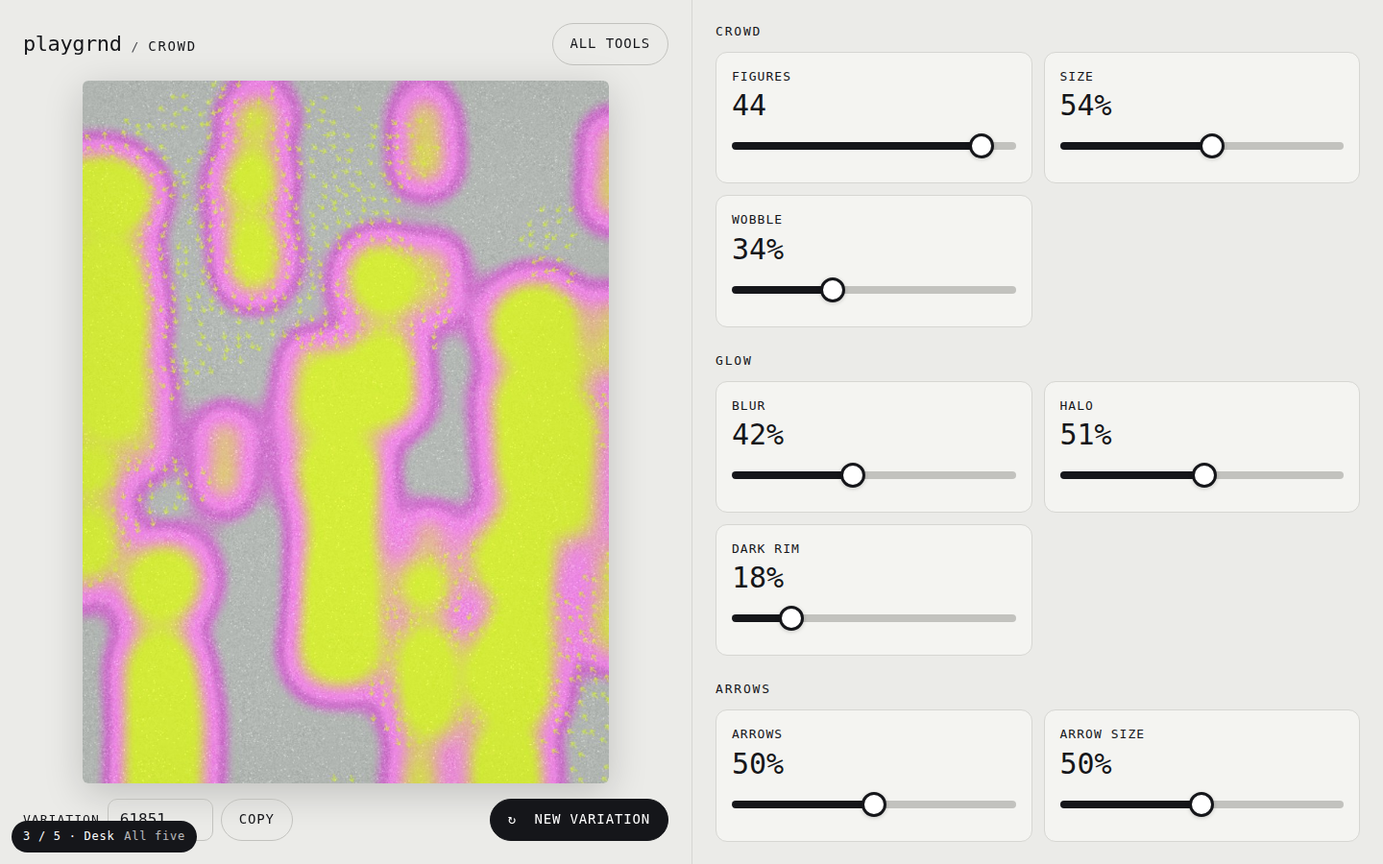
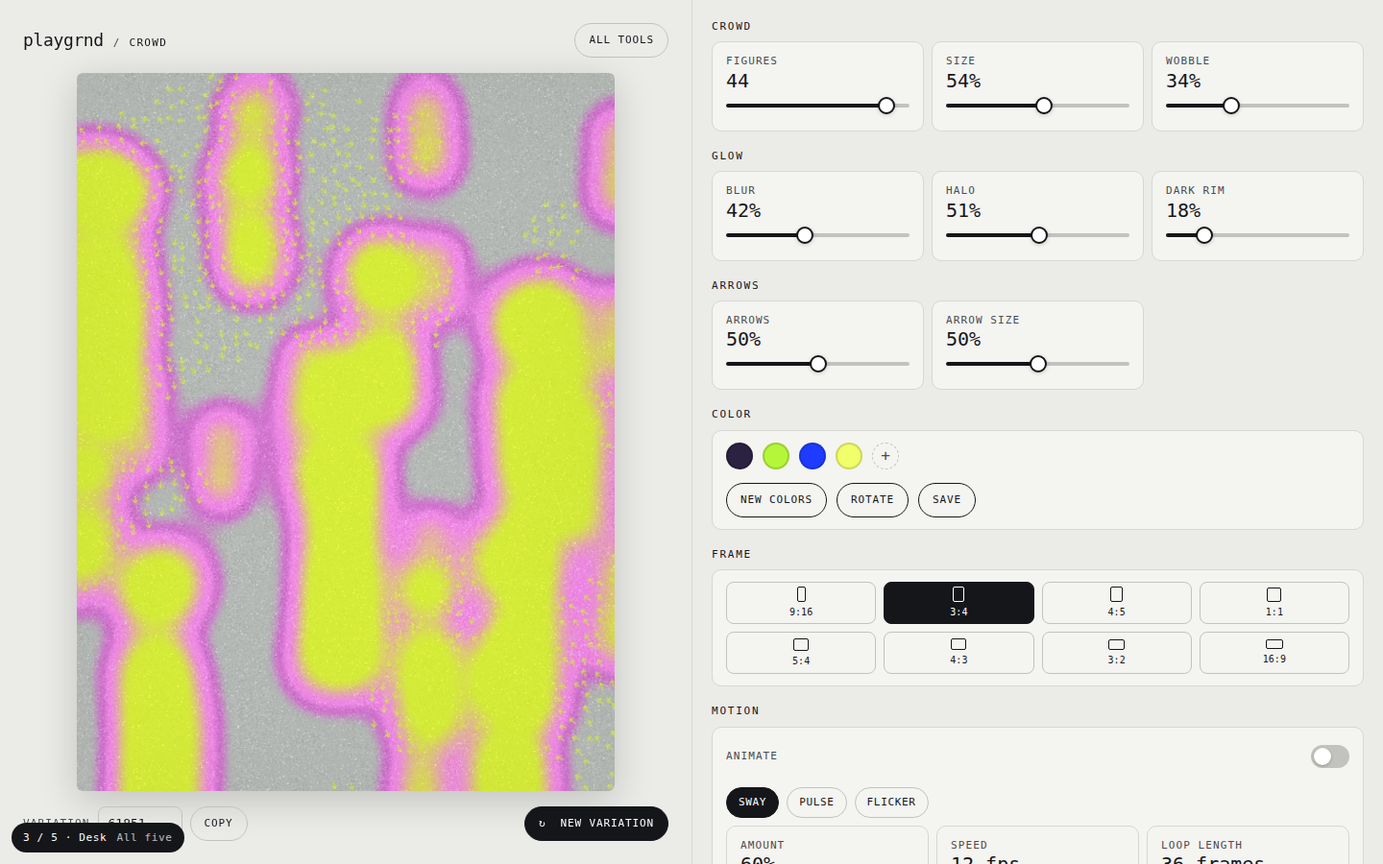
Layout prototypes: moderate sizes, not huge ones
Type 11–13px, 4px slider tracks with 18px thumbs, 36px controls and 28px
swatches: a step up from today rather than a leap. Badge no longer blocks
controls.

Claude-Session: https://claude.ai/code/session_01Hb5jk9z6h4o1AzZNFzskh6

diff --git a/ui/base.css b/ui/base.css
@@ -5,79 +5,80 @@
   --bg:#EBEBE8; --panel:#F4F4F1; --ink:#15161A; --ink2:#4A4B50; --ink3:#7A7B80;
   --line:#D6D6D2; --line2:#C2C2BE; --accent:#F5C21B;
   --mono:"DM Mono",ui-monospace,SFMono-Regular,Menlo,monospace;
-  --r:12px; --tap:44px;
+  --r:10px; --tap:36px;
 }
 *{box-sizing:border-box}
-html,body{margin:0;background:var(--bg);color:var(--ink);font:15px/1.4 var(--mono);-webkit-font-smoothing:antialiased}
+html,body{margin:0;background:var(--bg);color:var(--ink);font:13px/1.4 var(--mono);-webkit-font-smoothing:antialiased}
 button,input{font:inherit;color:inherit}
 button{cursor:pointer}
 a{color:inherit;text-decoration:none}
-.proto-tag{position:fixed;left:12px;bottom:12px;z-index:50;background:var(--ink);color:#fff;font-size:12px;letter-spacing:.06em;padding:8px 12px;border-radius:999px;display:flex;gap:10px;align-items:center}
-.proto-tag a{color:#fff;opacity:.7}
+.proto-tag{pointer-events:none;position:fixed;left:12px;bottom:12px;z-index:50;background:var(--ink);color:#fff;font-size:11px;letter-spacing:.06em;padding:8px 12px;border-radius:999px;display:flex;gap:10px;align-items:center}
+.proto-tag a{pointer-events:auto;color:#fff;opacity:.7}
 .proto-tag a:hover{opacity:1}
 
 /* --- type --- */
-.lbl{font-size:13px;letter-spacing:.08em;text-transform:uppercase;color:var(--ink);font-weight:500}
-.val{font-size:15px;color:var(--ink);font-variant-numeric:tabular-nums}
-.sub{font-size:13px;color:var(--ink2)}
-.h{font-size:13px;letter-spacing:.14em;text-transform:uppercase;color:var(--ink);font-weight:500;margin:0}
+.lbl{font-size:11px;letter-spacing:.1em;text-transform:uppercase;color:var(--ink2);font-weight:500}
+.val{font-size:12px;color:var(--ink);font-variant-numeric:tabular-nums}
+.sub{font-size:11px;color:var(--ink2)}
+.h{font-size:11px;letter-spacing:.16em;text-transform:uppercase;color:var(--ink);font-weight:500;margin:0}
 
 /* --- logo / header bits --- */
-.logo{font-size:22px;font-weight:500;letter-spacing:-.02em}
+.logo{font-size:18px;font-weight:500;letter-spacing:-.02em}
 .crumb{display:flex;gap:10px;align-items:baseline}
-.crumb .tool{font-size:14px;letter-spacing:.12em;text-transform:uppercase}
+.crumb .tool{font-size:11px;letter-spacing:.12em;text-transform:uppercase}
 
 /* --- slider --- */
-.dial{display:flex;flex-direction:column;gap:8px;min-height:60px;min-width:0}
+.dial{display:flex;flex-direction:column;gap:2px;min-height:44px;min-width:0}
 .dial .top{display:flex;justify-content:space-between;align-items:baseline}
-.dial input[type=range]{-webkit-appearance:none;appearance:none;width:100%;height:var(--tap);margin:0;background:transparent;
+.dial input[type=range]{-webkit-appearance:none;appearance:none;width:100%;height:28px;margin:0;background:transparent;
   --p:50%;}
-.dial input[type=range]::-webkit-slider-runnable-track{height:8px;border-radius:999px;
+.dial input[type=range]::-webkit-slider-runnable-track{height:4px;border-radius:999px;
   background:linear-gradient(90deg,var(--ink) 0 var(--p),var(--line2) var(--p) 100%)}
-.dial input[type=range]::-moz-range-track{height:8px;border-radius:999px;background:var(--line2)}
-.dial input[type=range]::-moz-range-progress{height:8px;border-radius:999px;background:var(--ink)}
-.dial input[type=range]::-webkit-slider-thumb{-webkit-appearance:none;width:26px;height:26px;border-radius:50%;background:#fff;border:3px solid var(--ink);margin-top:-9px;box-shadow:0 1px 4px rgba(0,0,0,.18)}
-.dial input[type=range]::-moz-range-thumb{width:20px;height:20px;border-radius:50%;background:#fff;border:3px solid var(--ink);box-shadow:0 1px 4px rgba(0,0,0,.18)}
+.dial input[type=range]::-moz-range-track{height:4px;border-radius:999px;background:var(--line2)}
+.dial input[type=range]::-moz-range-progress{height:4px;border-radius:999px;background:var(--ink)}
+.dial input[type=range]::-webkit-slider-thumb{-webkit-appearance:none;width:18px;height:18px;border-radius:50%;background:#fff;border:2.5px solid var(--ink);margin-top:-7px;box-shadow:0 1px 4px rgba(0,0,0,.18)}
+.dial input[type=range]::-moz-range-thumb{width:14px;height:14px;border-radius:50%;background:#fff;border:2.5px solid var(--ink);box-shadow:0 1px 4px rgba(0,0,0,.18)}
 .dial input[type=range]:focus-visible{outline:none}
 .dial input[type=range]:focus-visible::-webkit-slider-thumb{box-shadow:0 0 0 4px rgba(245,194,27,.6)}
 .dial .val-in{width:64px;text-align:right;border:0;border-bottom:2px solid var(--line2);background:transparent;padding:2px 0;font-size:15px}
 
 /* --- buttons --- */
-.btn{min-height:var(--tap);padding:0 18px;border-radius:999px;border:1.5px solid var(--ink);background:transparent;font-size:14px;letter-spacing:.06em;text-transform:uppercase;display:inline-flex;align-items:center;justify-content:center;gap:8px;white-space:nowrap}
+.btn{min-height:var(--tap);padding:0 14px;border-radius:999px;border:1px solid var(--ink);background:transparent;font-size:11px;letter-spacing:.08em;text-transform:uppercase;display:inline-flex;align-items:center;justify-content:center;gap:8px;white-space:nowrap}
 .btn:hover{background:rgba(0,0,0,.05)}
 .btn.primary{background:var(--ink);color:#fff;border-color:var(--ink)}
 .btn.primary:hover{background:#000}
-.btn.big{min-height:56px;font-size:15px;width:100%}
+.btn.big{min-height:44px;font-size:12px;width:100%}
 .btn.icon{width:var(--tap);padding:0;border-radius:50%}
 .btn.ghost{border-color:var(--line2)}
 .row{display:flex;gap:10px;flex-wrap:wrap;align-items:center}
 
 /* --- switch --- */
 .sw{display:flex;align-items:center;justify-content:space-between;min-height:var(--tap);gap:12px}
-.sw .knob{width:52px;height:30px;border-radius:999px;background:var(--line2);position:relative;border:0;flex:none;transition:background .15s}
-.sw .knob::after{content:"";position:absolute;top:3px;left:3px;width:24px;height:24px;border-radius:50%;background:#fff;box-shadow:0 1px 3px rgba(0,0,0,.25);transition:transform .15s}
+.sw .knob{width:40px;height:24px;border-radius:999px;background:var(--line2);position:relative;border:0;flex:none;transition:background .15s}
+.sw .knob::after{content:"";position:absolute;top:3px;left:3px;width:18px;height:18px;border-radius:50%;background:#fff;box-shadow:0 1px 3px rgba(0,0,0,.25);transition:transform .15s}
 .sw .knob[aria-pressed=true]{background:var(--ink)}
-.sw .knob[aria-pressed=true]::after{transform:translateX(22px)}
+.sw .knob[aria-pressed=true]::after{transform:translateX(16px)}
 
 /* --- chips --- */
 .chips{display:flex;gap:8px;flex-wrap:wrap}
-.chip{min-height:40px;padding:0 14px;border-radius:999px;border:1.5px solid var(--line2);background:transparent;font-size:14px}
+.chip{min-height:32px;padding:0 12px;border-radius:999px;border:1px solid var(--line2);background:transparent;font-size:11px;letter-spacing:.06em;text-transform:uppercase}
 .chip[aria-pressed=true]{background:var(--ink);color:#fff;border-color:var(--ink)}
 
 /* --- ratio tiles --- */
 .ratios{display:grid;grid-template-columns:repeat(4,1fr);gap:8px}
-.ratio{min-height:56px;border:1.5px solid var(--line2);border-radius:10px;background:transparent;display:flex;flex-direction:column;align-items:center;justify-content:center;gap:6px;font-size:13px}
-.ratio i{display:block;border:2px solid currentColor;border-radius:2px;width:14px;height:18px}
+.ratio{min-height:44px;border:1px solid var(--line2);border-radius:8px;background:transparent;display:flex;flex-direction:column;align-items:center;justify-content:center;gap:4px;font-size:10px}
+/* ratio glyph */
+.ratio i{display:block;border:1.5px solid currentColor;border-radius:2px;width:12px;height:15px}
 .ratio[aria-pressed=true]{background:var(--ink);color:#fff;border-color:var(--ink)}
 
 /* --- swatches --- */
 .inks{display:flex;gap:10px;flex-wrap:wrap}
-.ink{width:40px;height:40px;border-radius:50%;border:2px solid rgba(0,0,0,.15);padding:0}
-.ink.add{background:transparent;border:2px dashed var(--line2);font-size:20px;color:var(--ink2)}
+.ink{width:28px;height:28px;border-radius:50%;border:2px solid rgba(0,0,0,.15);padding:0}
+.ink.add{background:transparent;border:1.5px dashed var(--line2);font-size:16px;color:var(--ink2)}
 
 /* --- misc --- */
-.card{background:var(--panel);border:1px solid var(--line);border-radius:var(--r);padding:16px}
+.card{background:var(--panel);border:1px solid var(--line);border-radius:var(--r);padding:12px 14px}
 .seedbox{display:flex;gap:8px;align-items:center}
-.seedbox input{width:110px;min-height:var(--tap);border:1.5px solid var(--line2);border-radius:10px;background:transparent;padding:0 12px;font-size:16px}
+.seedbox input{width:88px;min-height:var(--tap);border:1px solid var(--line2);border-radius:8px;background:transparent;padding:0 10px;font-size:13px}
 .art{display:block;width:100%;height:auto;border-radius:6px;box-shadow:0 10px 40px rgba(0,0,0,.18)}
 .hint{font-size:12px;color:var(--ink3);letter-spacing:.06em;text-transform:uppercase}

diff --git a/ui/4/index.html b/ui/4/index.html
@@ -5,19 +5,19 @@
 <link rel="stylesheet" href="../base.css">
 <style>
 body{overflow:hidden}
-.stage{position:fixed;inset:0;display:flex;align-items:center;justify-content:center;padding:72px 24px 110px}
+.stage{position:fixed;inset:0;display:flex;align-items:center;justify-content:center;padding:64px 24px 90px}
 .stage img{max-height:100%;max-width:100%;width:auto;height:auto}
-.hdr{position:fixed;top:16px;left:20px;right:20px;display:flex;align-items:center;gap:16px;z-index:5}
+.hdr{position:fixed;top:14px;left:20px;right:20px;display:flex;align-items:center;gap:16px;z-index:5}
 .hdr .sp{flex:1}
-.fab{position:fixed;left:50%;bottom:22px;transform:translateX(-50%);display:flex;gap:6px;padding:8px;background:var(--ink);border-radius:999px;box-shadow:0 12px 40px rgba(0,0,0,.3);z-index:6}
-.fab button{min-height:52px;padding:0 18px;border-radius:999px;border:0;background:transparent;color:#fff;font-size:14px;letter-spacing:.06em;text-transform:uppercase;display:flex;align-items:center;gap:8px}
+.fab{position:fixed;left:50%;bottom:18px;transform:translateX(-50%);display:flex;gap:4px;padding:6px;background:var(--ink);border-radius:999px;box-shadow:0 12px 40px rgba(0,0,0,.3);z-index:6}
+.fab button{min-height:40px;padding:0 14px;border-radius:999px;border:0;background:transparent;color:#fff;font-size:11px;letter-spacing:.08em;text-transform:uppercase;display:flex;align-items:center;gap:8px}
 .fab button:hover{background:rgba(255,255,255,.12)}
 .fab button.hi{background:var(--accent);color:var(--ink)}
-.sheet{position:fixed;right:20px;top:72px;bottom:96px;width:440px;max-width:calc(100vw - 40px);background:var(--panel);border:1px solid var(--line);border-radius:18px;box-shadow:0 20px 60px rgba(0,0,0,.25);padding:20px;display:flex;flex-direction:column;gap:18px;overflow:auto;z-index:7;transform:translateX(calc(100% + 40px));transition:transform .2s;visibility:hidden}
+.sheet{position:fixed;right:20px;top:64px;bottom:80px;width:360px;max-width:calc(100vw - 40px);background:var(--panel);border:1px solid var(--line);border-radius:14px;box-shadow:0 20px 60px rgba(0,0,0,.25);padding:16px;display:flex;flex-direction:column;gap:12px;overflow:auto;z-index:7;transform:translateX(calc(100% + 40px));transition:transform .2s;visibility:hidden}
 .sheet.open{transform:none;visibility:visible}
 .sheet .head{display:flex;justify-content:space-between;align-items:center}
-.sheet .grp{display:flex;flex-direction:column;gap:12px;padding-top:12px;border-top:1px solid var(--line)}
-@media(max-width:700px){.hdr .seedbox{display:none}.stage{padding:64px 12px 100px}.sheet{left:0;right:0;top:auto;bottom:0;width:auto;max-width:none;max-height:72vh;border-radius:18px 18px 0 0;transform:translateY(110%)}.sheet.open{transform:none}.fab{left:12px;right:12px;transform:none;justify-content:space-between}.fab button{padding:0 12px;font-size:12px}}
+.sheet .grp{display:flex;flex-direction:column;gap:6px;padding-top:10px;border-top:1px solid var(--line)}
+@media(max-width:700px){.proto-tag{bottom:80px}.hdr .seedbox{display:none}.stage{padding:64px 12px 100px}.sheet{left:0;right:0;top:auto;bottom:0;width:auto;max-width:none;max-height:72vh;border-radius:18px 18px 0 0;transform:translateY(110%)}.sheet.open{transform:none}.fab{left:12px;right:12px;transform:none;justify-content:space-between}.fab button{padding:0 12px;font-size:12px}}
 </style></head>
 <body>
 <div class="hdr"><div class="crumb"><span class="logo">playgrnd</span><span class="sub">/</span><span class="tool">Crowd</span></div><span class="sp"></span><div class="seedbox"><span class="lbl">Variation</span><input value="61851" inputmode="numeric" aria-label="Variation number"><button class="btn ghost">Copy</button></div></div>
@@ -56,14 +56,14 @@ body{overflow:hidden}
 <button class="ink" style="background:#F0FF6A" aria-label="Ink 4"></button>
 <button class="ink add" aria-label="Add colour">+</button></div><div class="row"><button class="btn">New colors</button><button class="btn">Rotate</button><button class="btn">Save</button></div><p class="sub">Tap a swatch to change it. Drag to reorder.</p></aside>
 <aside class="sheet" id="sh-frame"><div class="head"><p class="h">Frame</p><button class="btn icon ghost" data-close="sh-frame" aria-label="Close">&times;</button></div><div class="ratios" data-one>
-<button class="ratio" aria-pressed="false"><i style="width:11px;height:20px"></i>9:16</button>
-<button class="ratio" aria-pressed="true"><i style="width:15px;height:20px"></i>3:4</button>
-<button class="ratio" aria-pressed="false"><i style="width:16px;height:20px"></i>4:5</button>
-<button class="ratio" aria-pressed="false"><i style="width:18px;height:18px"></i>1:1</button>
-<button class="ratio" aria-pressed="false"><i style="width:20px;height:16px"></i>5:4</button>
-<button class="ratio" aria-pressed="false"><i style="width:20px;height:15px"></i>4:3</button>
-<button class="ratio" aria-pressed="false"><i style="width:21px;height:14px"></i>3:2</button>
-<button class="ratio" aria-pressed="false"><i style="width:22px;height:12px"></i>16:9</button></div></aside>
+<button class="ratio" aria-pressed="false"><i style="width:9px;height:16px"></i>9:16</button>
+<button class="ratio" aria-pressed="true"><i style="width:12px;height:16px"></i>3:4</button>
+<button class="ratio" aria-pressed="false"><i style="width:13px;height:16px"></i>4:5</button>
+<button class="ratio" aria-pressed="false"><i style="width:15px;height:15px"></i>1:1</button>
+<button class="ratio" aria-pressed="false"><i style="width:16px;height:13px"></i>5:4</button>
+<button class="ratio" aria-pressed="false"><i style="width:16px;height:12px"></i>4:3</button>
+<button class="ratio" aria-pressed="false"><i style="width:17px;height:11px"></i>3:2</button>
+<button class="ratio" aria-pressed="false"><i style="width:18px;height:10px"></i>16:9</button></div></aside>
 <aside class="sheet" id="sh-export"><div class="head"><p class="h">Export</p><button class="btn icon ghost" data-close="sh-export" aria-label="Close">&times;</button></div><div class="dial"><div class="top"><span class="lbl">Size</span><span class="val">2400</span></div>
 <input type="range" min="600" max="6000" step="100" value="2400" data-fmt="px" aria-label="Size"></div><div class="row"><button class="btn primary" style="flex:1">PNG</button><button class="btn" style="flex:1">Video</button></div><p class="sub">Video needs Animate on.</p></aside>
 <div class="proto-tag"><span>4 / 5 · Focus</span><a href="../">All five</a></div>

diff --git a/ui/5/index.html b/ui/5/index.html
@@ -4,25 +4,25 @@
 <link rel="preconnect" href="https://fonts.googleapis.com"><link rel="stylesheet" href="https://fonts.googleapis.com/css2?family=DM+Mono:wght@400;500&display=swap">
 <link rel="stylesheet" href="../base.css">
 <style>
-body{font-size:16px}
-.lbl{font-size:14px}.val{font-size:16px}
-.app{display:grid;grid-template-columns:minmax(0,1fr) 520px;min-height:100vh}
+body{font-size:13px}
+.lbl{font-size:11px}.val{font-size:12px}
+.app{display:grid;grid-template-columns:minmax(0,1fr) 420px;min-height:100vh}
 .stage{position:sticky;top:0;height:100vh;display:flex;flex-direction:column;padding:24px;gap:16px}
 .stage .pic{flex:1;min-height:0;display:flex;align-items:center;justify-content:center}
 .stage img{max-height:100%;max-width:100%;width:auto;height:auto}
 .stage .top{display:flex;align-items:center;gap:16px}.stage .sp{flex:1}
-.ctl{padding:24px;border-left:1px solid var(--line);display:flex;flex-direction:column;gap:24px}
-.sec{display:flex;flex-direction:column;gap:10px}
-.step{display:grid;grid-template-columns:52px 1fr 52px;gap:10px;align-items:stretch;min-height:64px}
-.pm{border:1.5px solid var(--line2);border-radius:12px;background:var(--panel);font-size:24px;line-height:1}
+.ctl{padding:20px;border-left:1px solid var(--line);display:flex;flex-direction:column;gap:18px}
+.sec{display:flex;flex-direction:column;gap:6px}
+.step{display:grid;grid-template-columns:36px 1fr 36px;gap:8px;align-items:stretch;min-height:44px}
+.pm{border:1px solid var(--line2);border-radius:8px;background:var(--panel);font-size:16px;line-height:1}
 .pm:active{background:var(--ink);color:#fff}
-.mid{display:flex;flex-direction:column;gap:8px;justify-content:center}
+.mid{display:flex;flex-direction:column;gap:5px;justify-content:center}
 .mid .l{display:flex;justify-content:space-between;align-items:baseline}
-.bar{height:16px;border-radius:999px;background:var(--line2);overflow:hidden;cursor:pointer;position:relative}
+.bar{height:10px;border-radius:999px;background:var(--line2);overflow:hidden;cursor:pointer;position:relative}
 .bar i{display:block;height:100%;width:50%;background:var(--ink);border-radius:999px}
-.ratio{min-height:64px;font-size:15px}
-.ink{width:48px;height:48px}
-.chip{min-height:48px;font-size:15px}
+.ratio{min-height:48px}
+.ink{width:32px;height:32px}
+.chip{min-height:36px}
 @media(max-width:1000px){.app{grid-template-columns:1fr}.stage{position:sticky;height:auto;padding:14px;gap:10px;z-index:2;background:var(--bg);border-bottom:1px solid var(--line)}.stage .pic{height:40vh}.ctl{border:0;padding:16px}}
 </style></head>
 <body>
@@ -30,7 +30,7 @@ body{font-size:16px}
 <section class="stage">
   <div class="top"><div class="crumb"><span class="logo">playgrnd</span><span class="sub">/</span><span class="tool">Crowd</span></div><span class="sp"></span><a class="btn ghost" href="#">All tools</a></div>
   <div class="pic"><img class="art" src="../art/crowd.jpg" alt=""></div>
-  <div class="row"><div class="seedbox"><span class="lbl">Variation</span><input value="61851" inputmode="numeric" aria-label="Variation number"><button class="btn ghost">Copy</button></div><span style="flex:1"></span><button class="btn primary" data-new style="min-height:56px">&#8635;&nbsp; New variation</button></div>
+  <div class="row"><div class="seedbox"><span class="lbl">Variation</span><input value="61851" inputmode="numeric" aria-label="Variation number"><button class="btn ghost">Copy</button></div><span style="flex:1"></span><button class="btn primary" data-new style="min-height:44px">&#8635;&nbsp; New variation</button></div>
 </section>
 <section class="ctl">
   <div class="sec"><p class="h">Crowd</p><div class="step" data-min="1" data-max="48" data-step="1" data-fmt="int" data-val="44">
@@ -67,14 +67,14 @@ body{font-size:16px}
 <button class="ink" style="background:#F0FF6A" aria-label="Ink 4"></button>
 <button class="ink add" aria-label="Add colour">+</button></div><div class="row"><button class="btn">New colors</button><button class="btn">Rotate</button><button class="btn">Save</button></div></div>
   <div class="sec"><p class="h">Frame</p><div class="ratios" data-one>
-<button class="ratio" aria-pressed="false"><i style="width:11px;height:20px"></i>9:16</button>
-<button class="ratio" aria-pressed="true"><i style="width:15px;height:20px"></i>3:4</button>
-<button class="ratio" aria-pressed="false"><i style="width:16px;height:20px"></i>4:5</button>
-<button class="ratio" aria-pressed="false"><i style="width:18px;height:18px"></i>1:1</button>
-<button class="ratio" aria-pressed="false"><i style="width:20px;height:16px"></i>5:4</button>
-<button class="ratio" aria-pressed="false"><i style="width:20px;height:15px"></i>4:3</button>
-<button class="ratio" aria-pressed="false"><i style="width:21px;height:14px"></i>3:2</button>
-<button class="ratio" aria-pressed="false"><i style="width:22px;height:12px"></i>16:9</button></div></div>
+<button class="ratio" aria-pressed="false"><i style="width:9px;height:16px"></i>9:16</button>
+<button class="ratio" aria-pressed="true"><i style="width:12px;height:16px"></i>3:4</button>
+<button class="ratio" aria-pressed="false"><i style="width:13px;height:16px"></i>4:5</button>
+<button class="ratio" aria-pressed="false"><i style="width:15px;height:15px"></i>1:1</button>
+<button class="ratio" aria-pressed="false"><i style="width:16px;height:13px"></i>5:4</button>
+<button class="ratio" aria-pressed="false"><i style="width:16px;height:12px"></i>4:3</button>
+<button class="ratio" aria-pressed="false"><i style="width:17px;height:11px"></i>3:2</button>
+<button class="ratio" aria-pressed="false"><i style="width:18px;height:10px"></i>16:9</button></div></div>
   <div class="sec"><div class="sw"><span class="lbl">Animate</span><button class="knob" aria-pressed="false" data-body="m5" aria-label="Animate"></button></div><div id="m5" hidden class="sec"><div class="chips" data-one><button class="chip" aria-pressed="true">Sway</button><button class="chip" aria-pressed="false">Pulse</button><button class="chip" aria-pressed="false">Flicker</button></div><div class="step" data-min="0.05" data-max="2" data-step="0.05" data-fmt="pct" data-val="0.6">
 <button class="pm" aria-label="Less Amount">&minus;</button>
 <div class="mid"><div class="l"><span class="lbl">Amount</span><span class="val"></span></div><div class="bar"><i></i></div></div>

diff --git a/ui/index.html b/ui/index.html
@@ -22,7 +22,7 @@ h1{font-size:26px;font-weight:500;margin:0 0 8px}
 </style></head>
 <body><div class="wrap">
 <h1>Tool page layouts</h1>
-<p class="lead">Five ways to make the tool page easier to see and easier to grab. Same brand, same controls, same picture in every one. Each opens with the real dial set from Crowd so you can feel the sliders, chips and buttons at their new sizes. Try them on your phone too.</p>
-<div class="now"><span>Labels today</span><b>8.5px at 45% grey</b><span>Labels in every option</span><b>13–16px at full ink</b><span>Slider track today</span><b>1px hairline, 12px thumb</b><span>Slider in every option</span><b>8–16px track, 26px thumb</b><span>Smallest tap target today</span><b>15px swatch</b><span>Smallest tap target now</span><b>40px</b></div>
-<div class="opts"><a class="opt" href="1/"><img src="shots/1-desktop.png" alt=""><div class="t"><span class="num">1</span><span class="name">Big rail</span></div><p>Today's layout, kept. Everything in it is bigger: 13–15px type at full ink, 8px slider tracks, 26px thumbs, 44px rows.</p><div class="mini"><img src="shots/1-mobile.png" alt=""></div></a><a class="opt" href="2/"><img src="shots/2-desktop.png" alt=""><div class="t"><span class="num">2</span><span class="name">Deck</span></div><p>Art on top, a tabbed dock along the bottom. One tab open at a time, its dials laid side by side at full width. Built for thumbs.</p><div class="mini"><img src="shots/2-mobile.png" alt=""></div></a><a class="opt" href="3/"><img src="shots/3-desktop.png" alt=""><div class="t"><span class="num">3</span><span class="name">Desk</span></div><p>Art pinned on the left, a grid of large dial cards on the right. Each card shows its number big, so you can read the setting from across the room.</p><div class="mini"><img src="shots/3-mobile.png" alt=""></div></a><a class="opt" href="4/"><img src="shots/4-desktop.png" alt=""><div class="t"><span class="num">4</span><span class="name">Focus</span></div><p>The picture gets the whole screen. A floating bar of five big buttons sits at the bottom; each opens a sheet with large controls, then gets out of the way.</p><div class="mini"><img src="shots/4-mobile.png" alt=""></div></a><a class="opt" href="5/"><img src="shots/5-desktop.png" alt=""><div class="t"><span class="num">5</span><span class="name">Steppers</span></div><p>No hairline sliders at all. Every dial is a wide bar with big minus and plus buttons, so a nudge is one tap and a jump is a tap on the bar. 16px type throughout.</p><div class="mini"><img src="shots/5-mobile.png" alt=""></div></a></div>
+<p class="lead">Five ways to make the tool page easier to see and easier to grab, each a moderate step up from today rather than a leap. Same brand, same controls, same picture in every one. Each opens with the real dial set from Crowd so you can feel the sliders, chips and buttons at their new sizes. Try them on your phone too.</p>
+<div class="now"><span>Labels today</span><b>8.5px at 45% grey</b><span>Labels in every option</span><b>11–12px at 70% ink</b><span>Slider track today</span><b>1px hairline, 12px thumb</b><span>Slider in every option</span><b>4px track, 18px thumb</b><span>Smallest tap target today</span><b>15px swatch</b><span>Smallest tap target now</span><b>28px swatch, 36px everything else</b></div>
+<div class="opts"><a class="opt" href="1/"><img src="shots/1-desktop.png" alt=""><div class="t"><span class="num">1</span><span class="name">Big rail</span></div><p>Today's layout, kept. Everything in it a step bigger: 11–12px type instead of 8.5, 4px slider tracks instead of 1, 18px thumbs, 36px rows.</p><div class="mini"><img src="shots/1-mobile.png" alt=""></div></a><a class="opt" href="2/"><img src="shots/2-desktop.png" alt=""><div class="t"><span class="num">2</span><span class="name">Deck</span></div><p>Art on top, a tabbed dock along the bottom. One tab open at a time, its dials laid side by side at full width. Built for thumbs.</p><div class="mini"><img src="shots/2-mobile.png" alt=""></div></a><a class="opt" href="3/"><img src="shots/3-desktop.png" alt=""><div class="t"><span class="num">3</span><span class="name">Desk</span></div><p>Art pinned on the left, a grid of dial cards on the right. Each card shows its number a little bigger, so you can find a setting at a glance.</p><div class="mini"><img src="shots/3-mobile.png" alt=""></div></a><a class="opt" href="4/"><img src="shots/4-desktop.png" alt=""><div class="t"><span class="num">4</span><span class="name">Focus</span></div><p>The picture gets the whole screen. A floating bar of five buttons sits at the bottom; each opens a sheet with large controls, then gets out of the way.</p><div class="mini"><img src="shots/4-mobile.png" alt=""></div></a><a class="opt" href="5/"><img src="shots/5-desktop.png" alt=""><div class="t"><span class="num">5</span><span class="name">Steppers</span></div><p>No hairline sliders at all. Every dial is a bar with minus and plus buttons, so a nudge is one tap and a jump is a tap on the bar.</p><div class="mini"><img src="shots/5-mobile.png" alt=""></div></a></div>
 </div></body></html>

diff --git a/ui/2/index.html b/ui/2/index.html
@@ -5,16 +5,16 @@
 <link rel="stylesheet" href="../base.css">
 <style>
 .app{display:grid;grid-template-rows:auto 1fr auto;grid-template-columns:minmax(0,1fr);height:100vh}
-.bar{display:flex;align-items:center;gap:16px;padding:12px 20px;border-bottom:1px solid var(--line)}
+.bar{display:flex;align-items:center;gap:12px;padding:10px 18px;border-bottom:1px solid var(--line)}
 .bar .sp{flex:1}
 .stage{display:flex;align-items:center;justify-content:center;padding:20px;min-height:0}
 .stage img{max-height:100%;max-width:100%;width:auto;height:auto}
 .dock{border-top:1px solid var(--line);background:var(--panel)}
 .tabs{display:flex;gap:4px;padding:10px 12px 0;overflow-x:auto;scrollbar-width:none}
 .tabs::-webkit-scrollbar{display:none}
-.tab{min-height:var(--tap);padding:0 16px;border:0;border-radius:10px 10px 0 0;background:transparent;font-size:14px;letter-spacing:.06em;text-transform:uppercase;color:var(--ink2);white-space:nowrap}
+.tab{min-height:var(--tap);padding:0 14px;border:0;border-radius:8px 8px 0 0;background:transparent;font-size:11px;letter-spacing:.08em;text-transform:uppercase;color:var(--ink2);white-space:nowrap}
 .tab[aria-selected=true]{background:var(--bg);color:var(--ink);box-shadow:inset 0 -3px 0 var(--ink)}
-.pane{padding:18px 20px 22px;display:grid;grid-template-columns:repeat(auto-fit,minmax(220px,1fr));gap:18px 28px;align-items:start;min-height:120px;background:var(--bg)}
+.pane{padding:12px 18px 16px;display:grid;grid-template-columns:repeat(auto-fit,minmax(200px,1fr));gap:10px 24px;align-items:start;min-height:84px;background:var(--bg)}
 .pane[hidden]{display:none}
 .pane .wide{grid-column:1/-1}
 @media(max-width:700px){.bar{padding:10px 12px;gap:8px;flex-wrap:wrap}.bar .sp{display:none}.bar .crumb{width:100%}.bar .seedbox .lbl,.bar .seedbox .ghost{display:none}.bar .seedbox input{width:84px}.bar .btn{padding:0 12px}.pane{grid-template-columns:1fr;gap:12px;padding:12px 14px 16px;max-height:38vh;overflow:auto}.stage{padding:10px}}
@@ -58,14 +58,14 @@
 <button class="ink" style="background:#F0FF6A" aria-label="Ink 4"></button>
 <button class="ink add" aria-label="Add colour">+</button></div></div><div class="wide"><div class="row"><button class="btn">New colors</button><button class="btn">Rotate</button><button class="btn">Save</button></div></div></div>
   <div class="pane" id="t5" hidden><div class="wide"><div class="ratios" data-one>
-<button class="ratio" aria-pressed="false"><i style="width:11px;height:20px"></i>9:16</button>
-<button class="ratio" aria-pressed="true"><i style="width:15px;height:20px"></i>3:4</button>
-<button class="ratio" aria-pressed="false"><i style="width:16px;height:20px"></i>4:5</button>
-<button class="ratio" aria-pressed="false"><i style="width:18px;height:18px"></i>1:1</button>
-<button class="ratio" aria-pressed="false"><i style="width:20px;height:16px"></i>5:4</button>
-<button class="ratio" aria-pressed="false"><i style="width:20px;height:15px"></i>4:3</button>
-<button class="ratio" aria-pressed="false"><i style="width:21px;height:14px"></i>3:2</button>
-<button class="ratio" aria-pressed="false"><i style="width:22px;height:12px"></i>16:9</button></div></div></div>
+<button class="ratio" aria-pressed="false"><i style="width:9px;height:16px"></i>9:16</button>
+<button class="ratio" aria-pressed="true"><i style="width:12px;height:16px"></i>3:4</button>
+<button class="ratio" aria-pressed="false"><i style="width:13px;height:16px"></i>4:5</button>
+<button class="ratio" aria-pressed="false"><i style="width:15px;height:15px"></i>1:1</button>
+<button class="ratio" aria-pressed="false"><i style="width:16px;height:13px"></i>5:4</button>
+<button class="ratio" aria-pressed="false"><i style="width:16px;height:12px"></i>4:3</button>
+<button class="ratio" aria-pressed="false"><i style="width:17px;height:11px"></i>3:2</button>
+<button class="ratio" aria-pressed="false"><i style="width:18px;height:10px"></i>16:9</button></div></div></div>
   <div class="pane" id="t6" hidden><div class="wide"><div class="sw"><span class="lbl">Animate</span><button class="knob" aria-pressed="true" data-body="m2" aria-label="Animate"></button></div></div><div class="wide" id="m2"><div class="chips" data-one><button class="chip" aria-pressed="true">Sway</button><button class="chip" aria-pressed="false">Pulse</button><button class="chip" aria-pressed="false">Flicker</button></div></div><div class="dial"><div class="top"><span class="lbl">Amount</span><span class="val">0.6</span></div>
 <input type="range" min="0.05" max="2" step="0.05" value="0.6" data-fmt="pct" aria-label="Amount"></div><div class="dial"><div class="top"><span class="lbl">Speed</span><span class="val">12</span></div>
 <input type="range" min="2" max="30" step="1" value="12" data-fmt="fps" aria-label="Speed"></div><div class="dial"><div class="top"><span class="lbl">Loop length</span><span class="val">36</span></div>

diff --git a/ui/1/index.html b/ui/1/index.html
@@ -4,18 +4,18 @@
 <link rel="preconnect" href="https://fonts.googleapis.com"><link rel="stylesheet" href="https://fonts.googleapis.com/css2?family=DM+Mono:wght@400;500&display=swap">
 <link rel="stylesheet" href="../base.css">
 <style>
-.app{display:grid;grid-template-columns:360px 1fr 300px;min-height:100vh}
-.rail{padding:28px 24px;border-right:1px solid var(--line);display:flex;flex-direction:column;gap:22px;overflow:auto;max-height:100vh;position:sticky;top:0}
-.rail2{padding:28px 24px;border-left:1px solid var(--line);display:flex;flex-direction:column;gap:22px}
+.app{display:grid;grid-template-columns:300px 1fr 260px;min-height:100vh}
+.rail{padding:22px 20px;border-right:1px solid var(--line);display:flex;flex-direction:column;gap:16px;overflow:auto;max-height:100vh;position:sticky;top:0}
+.rail2{padding:22px 20px;border-left:1px solid var(--line);display:flex;flex-direction:column;gap:18px}
 .stage{display:flex;align-items:center;justify-content:center;padding:32px}
 .stage img{max-height:calc(100vh - 64px);max-width:100%;width:auto}
 details{border-top:1px solid var(--line);padding-top:14px}
 summary{list-style:none;cursor:pointer;display:flex;justify-content:space-between;align-items:center;min-height:var(--tap)}
 summary::-webkit-details-marker{display:none}
-summary::after{content:"–";font-size:18px;color:var(--ink2)}
+summary::after{content:"–";font-size:14px;color:var(--ink2)}
 details:not([open]) summary::after{content:"+"}
-.body{display:flex;flex-direction:column;gap:14px;padding:6px 0 10px}
-.meta{display:grid;grid-template-columns:auto 1fr;gap:4px 16px;font-size:13px}
+.body{display:flex;flex-direction:column;gap:8px;padding:2px 0 8px}
+.meta{display:grid;grid-template-columns:auto 1fr;gap:2px 14px;font-size:11px}
 .meta b{font-weight:500}
 @media(max-width:1000px){.app{grid-template-columns:minmax(0,1fr)}.rail{position:static;max-height:none;border:0;order:2}.rail2{border:0;order:3}.stage{order:1;padding:16px}.stage img{max-height:60vh}}
 </style></head>
@@ -55,14 +55,14 @@ details:not([open]) summary::after{content:"+"}
 <main class="stage"><img class="art" src="../art/crowd.jpg" alt=""></main>
 <aside class="rail2">
   <div><p class="h" style="margin-bottom:12px">Frame</p><div class="ratios" data-one>
-<button class="ratio" aria-pressed="false"><i style="width:11px;height:20px"></i>9:16</button>
-<button class="ratio" aria-pressed="true"><i style="width:15px;height:20px"></i>3:4</button>
-<button class="ratio" aria-pressed="false"><i style="width:16px;height:20px"></i>4:5</button>
-<button class="ratio" aria-pressed="false"><i style="width:18px;height:18px"></i>1:1</button>
-<button class="ratio" aria-pressed="false"><i style="width:20px;height:16px"></i>5:4</button>
-<button class="ratio" aria-pressed="false"><i style="width:20px;height:15px"></i>4:3</button>
-<button class="ratio" aria-pressed="false"><i style="width:21px;height:14px"></i>3:2</button>
-<button class="ratio" aria-pressed="false"><i style="width:22px;height:12px"></i>16:9</button></div></div>
+<button class="ratio" aria-pressed="false"><i style="width:9px;height:16px"></i>9:16</button>
+<button class="ratio" aria-pressed="true"><i style="width:12px;height:16px"></i>3:4</button>
+<button class="ratio" aria-pressed="false"><i style="width:13px;height:16px"></i>4:5</button>
+<button class="ratio" aria-pressed="false"><i style="width:15px;height:15px"></i>1:1</button>
+<button class="ratio" aria-pressed="false"><i style="width:16px;height:13px"></i>5:4</button>
+<button class="ratio" aria-pressed="false"><i style="width:16px;height:12px"></i>4:3</button>
+<button class="ratio" aria-pressed="false"><i style="width:17px;height:11px"></i>3:2</button>
+<button class="ratio" aria-pressed="false"><i style="width:18px;height:10px"></i>16:9</button></div></div>
   <div class="meta"><span class="sub">Ratio</span><b>3:4</b><span class="sub">Inks</span><b>04</b><span class="sub">Render</b><b>461×615 · 76ms</b></div>
   <div><p class="h" style="margin-bottom:12px">Export</p><div class="body"><div class="dial"><div class="top"><span class="lbl">Size</span><span class="val">2400</span></div>
 <input type="range" min="600" max="6000" step="100" value="2400" data-fmt="px" aria-label="Size"></div><div class="row"><button class="btn primary" style="flex:1">PNG</button><button class="btn" style="flex:1">Video</button></div></div></div>

diff --git a/ui/3/index.html b/ui/3/index.html
@@ -10,12 +10,12 @@
 .stage .sp{flex:1}
 .stage .pic{flex:1;min-height:0;display:flex;align-items:center;justify-content:center}
 .stage img{max-height:100%;max-width:100%;width:auto;height:auto}
-.desk{padding:24px;display:flex;flex-direction:column;gap:26px;border-left:1px solid var(--line)}
-.grid{display:grid;grid-template-columns:1fr 1fr;gap:12px}
+.desk{padding:20px;display:flex;flex-direction:column;gap:18px;border-left:1px solid var(--line)}
+.grid{display:grid;grid-template-columns:1fr 1fr 1fr;gap:8px}
 .grid .span{grid-column:1/-1}
-.card.dial{gap:4px;min-height:120px}
-.val.big{font-size:30px;line-height:1.1}
-.sec{display:flex;flex-direction:column;gap:12px}
+.card.dial{gap:0;min-height:84px}
+.val.big{font-size:20px;line-height:1.2}
+.sec{display:flex;flex-direction:column;gap:8px}
 @media(max-width:900px){.app{grid-template-columns:1fr}.stage{position:sticky;height:auto;padding:14px;gap:10px;background:var(--bg);z-index:2;border-bottom:1px solid var(--line)}.stage .pic{height:42vh}.desk{border:0;padding:16px}}
 </style></head>
 <body>
@@ -44,14 +44,14 @@
 <button class="ink" style="background:#F0FF6A" aria-label="Ink 4"></button>
 <button class="ink add" aria-label="Add colour">+</button></div><div class="row"><button class="btn">New colors</button><button class="btn">Rotate</button><button class="btn">Save</button></div></div></div>
   <div class="sec"><p class="h">Frame</p><div class="card"><div class="ratios" data-one>
-<button class="ratio" aria-pressed="false"><i style="width:11px;height:20px"></i>9:16</button>
-<button class="ratio" aria-pressed="true"><i style="width:15px;height:20px"></i>3:4</button>
-<button class="ratio" aria-pressed="false"><i style="width:16px;height:20px"></i>4:5</button>
-<button class="ratio" aria-pressed="false"><i style="width:18px;height:18px"></i>1:1</button>
-<button class="ratio" aria-pressed="false"><i style="width:20px;height:16px"></i>5:4</button>
-<button class="ratio" aria-pressed="false"><i style="width:20px;height:15px"></i>4:3</button>
-<button class="ratio" aria-pressed="false"><i style="width:21px;height:14px"></i>3:2</button>
-<button class="ratio" aria-pressed="false"><i style="width:22px;height:12px"></i>16:9</button></div></div></div>
+<button class="ratio" aria-pressed="false"><i style="width:9px;height:16px"></i>9:16</button>
+<button class="ratio" aria-pressed="true"><i style="width:12px;height:16px"></i>3:4</button>
+<button class="ratio" aria-pressed="false"><i style="width:13px;height:16px"></i>4:5</button>
+<button class="ratio" aria-pressed="false"><i style="width:15px;height:15px"></i>1:1</button>
+<button class="ratio" aria-pressed="false"><i style="width:16px;height:13px"></i>5:4</button>
+<button class="ratio" aria-pressed="false"><i style="width:16px;height:12px"></i>4:3</button>
+<button class="ratio" aria-pressed="false"><i style="width:17px;height:11px"></i>3:2</button>
+<button class="ratio" aria-pressed="false"><i style="width:18px;height:10px"></i>16:9</button></div></div></div>
   <div class="sec"><p class="h">Motion</p><div class="card" style="display:flex;flex-direction:column;gap:14px"><div class="sw"><span class="lbl">Animate</span><button class="knob" aria-pressed="false" data-body="m3" aria-label="Animate"></button></div><div id="m3" hidden class="grid"><div class="span"><div class="chips" data-one><button class="chip" aria-pressed="true">Sway</button><button class="chip" aria-pressed="false">Pulse</button><button class="chip" aria-pressed="false">Flicker</button></div></div><div class="card dial"><span class="lbl">Amount</span><span class="val big">0.6</span>
 <input type="range" min="0.05" max="2" step="0.05" value="0.6" data-fmt="pct" aria-label="Amount"></div><div class="card dial"><span class="lbl">Speed</span><span class="val big">12</span>
 <input type="range" min="2" max="30" step="1" value="12" data-fmt="fps" aria-label="Speed"></div><div class="card dial"><span class="lbl">Loop length</span><span class="val big">36</span>
